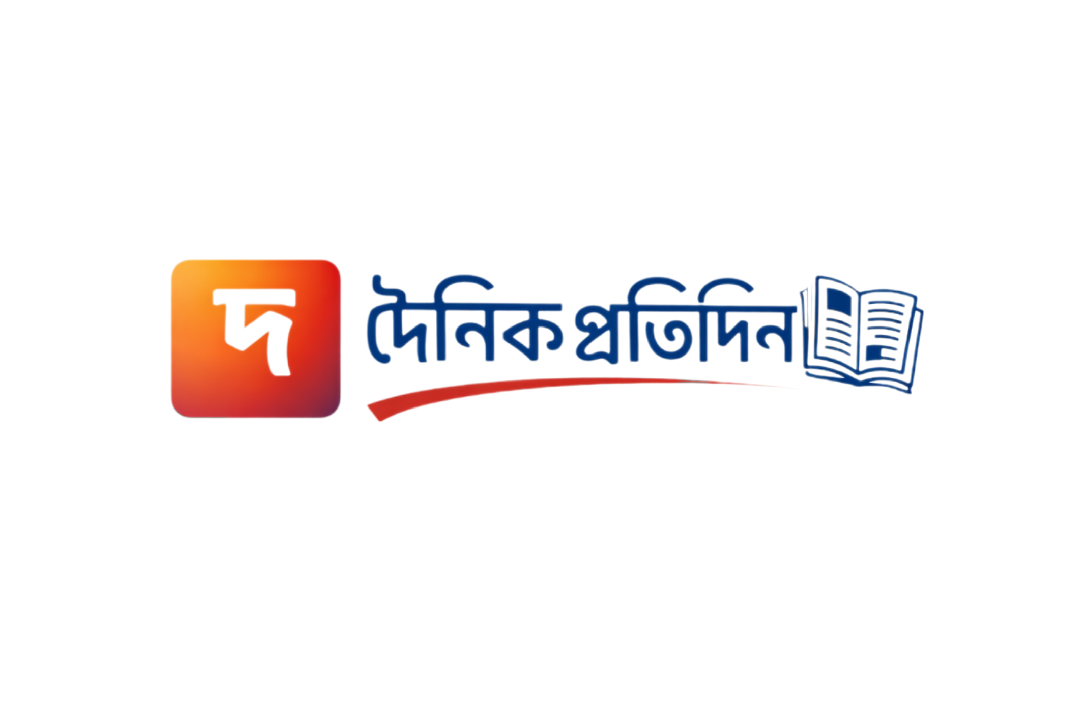
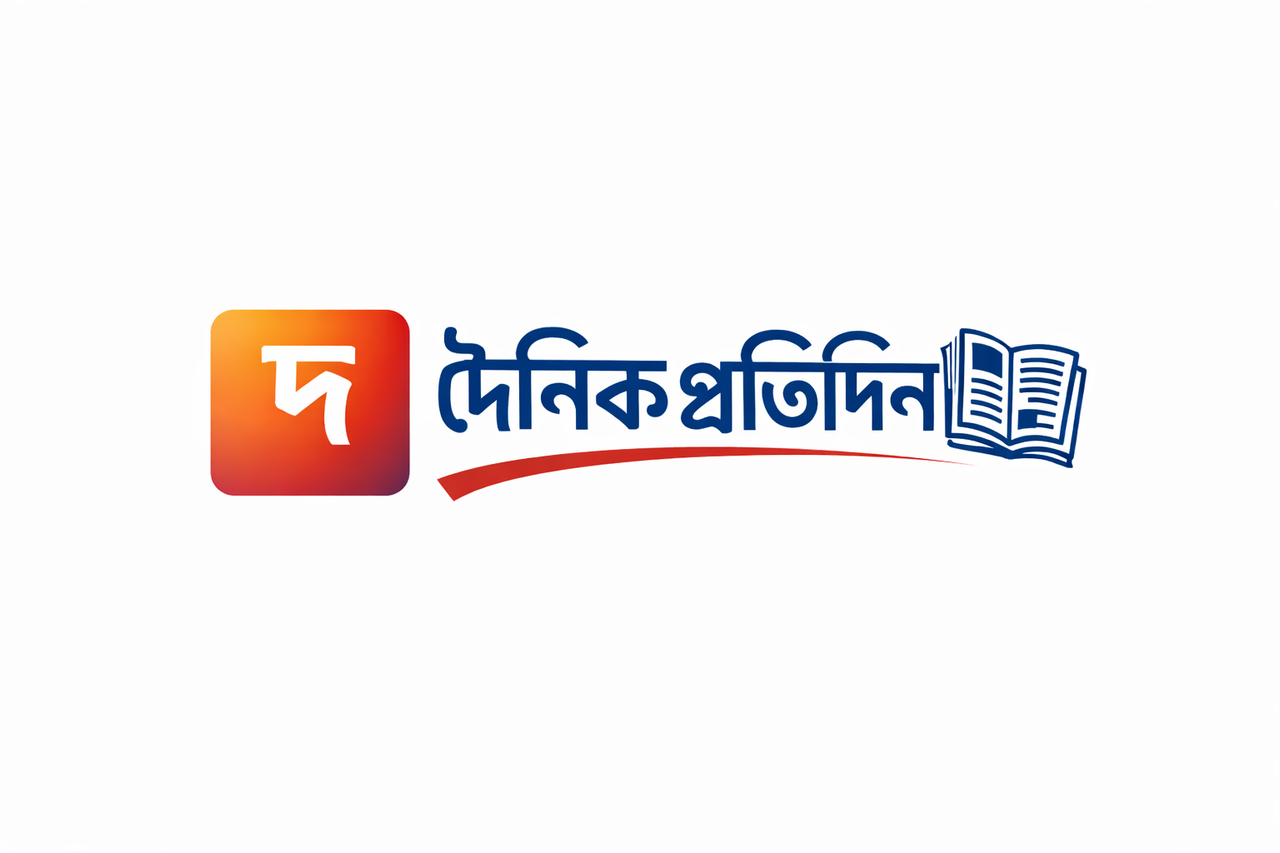
Changes

Changed region(s): [[0.3056, 0.3677, 0.8556, 0.5822], [0.1528, 0.3677, 0.275, 0.5822]]

diff --git a/src/components/Header.tsx b/src/components/Header.tsx
@@ -93,13 +93,13 @@ const Header = ({
 
       <div className="container">
         {/* Main Header Row */}
-        <div className="flex items-center justify-end gap-4 py-1">
-          {/* Header Title Image - Full Width Right Aligned */}
-          <Link to="/" className="group flex-1 flex justify-end">
+        <div className="flex items-center justify-center py-2">
+          {/* Header Title Image - Centered and Large */}
+          <Link to="/" className="group">
             <img 
               src={headerTitle} 
               alt="দৈনিক প্রতিদিন" 
-              className="h-16 sm:h-20 md:h-24 w-full object-contain object-right transform transition-all duration-300 group-hover:scale-[1.02]"
+              className="h-20 sm:h-28 md:h-36 lg:h-44 object-contain transform transition-all duration-300 group-hover:scale-[1.02]"
             />
           </Link>
 
